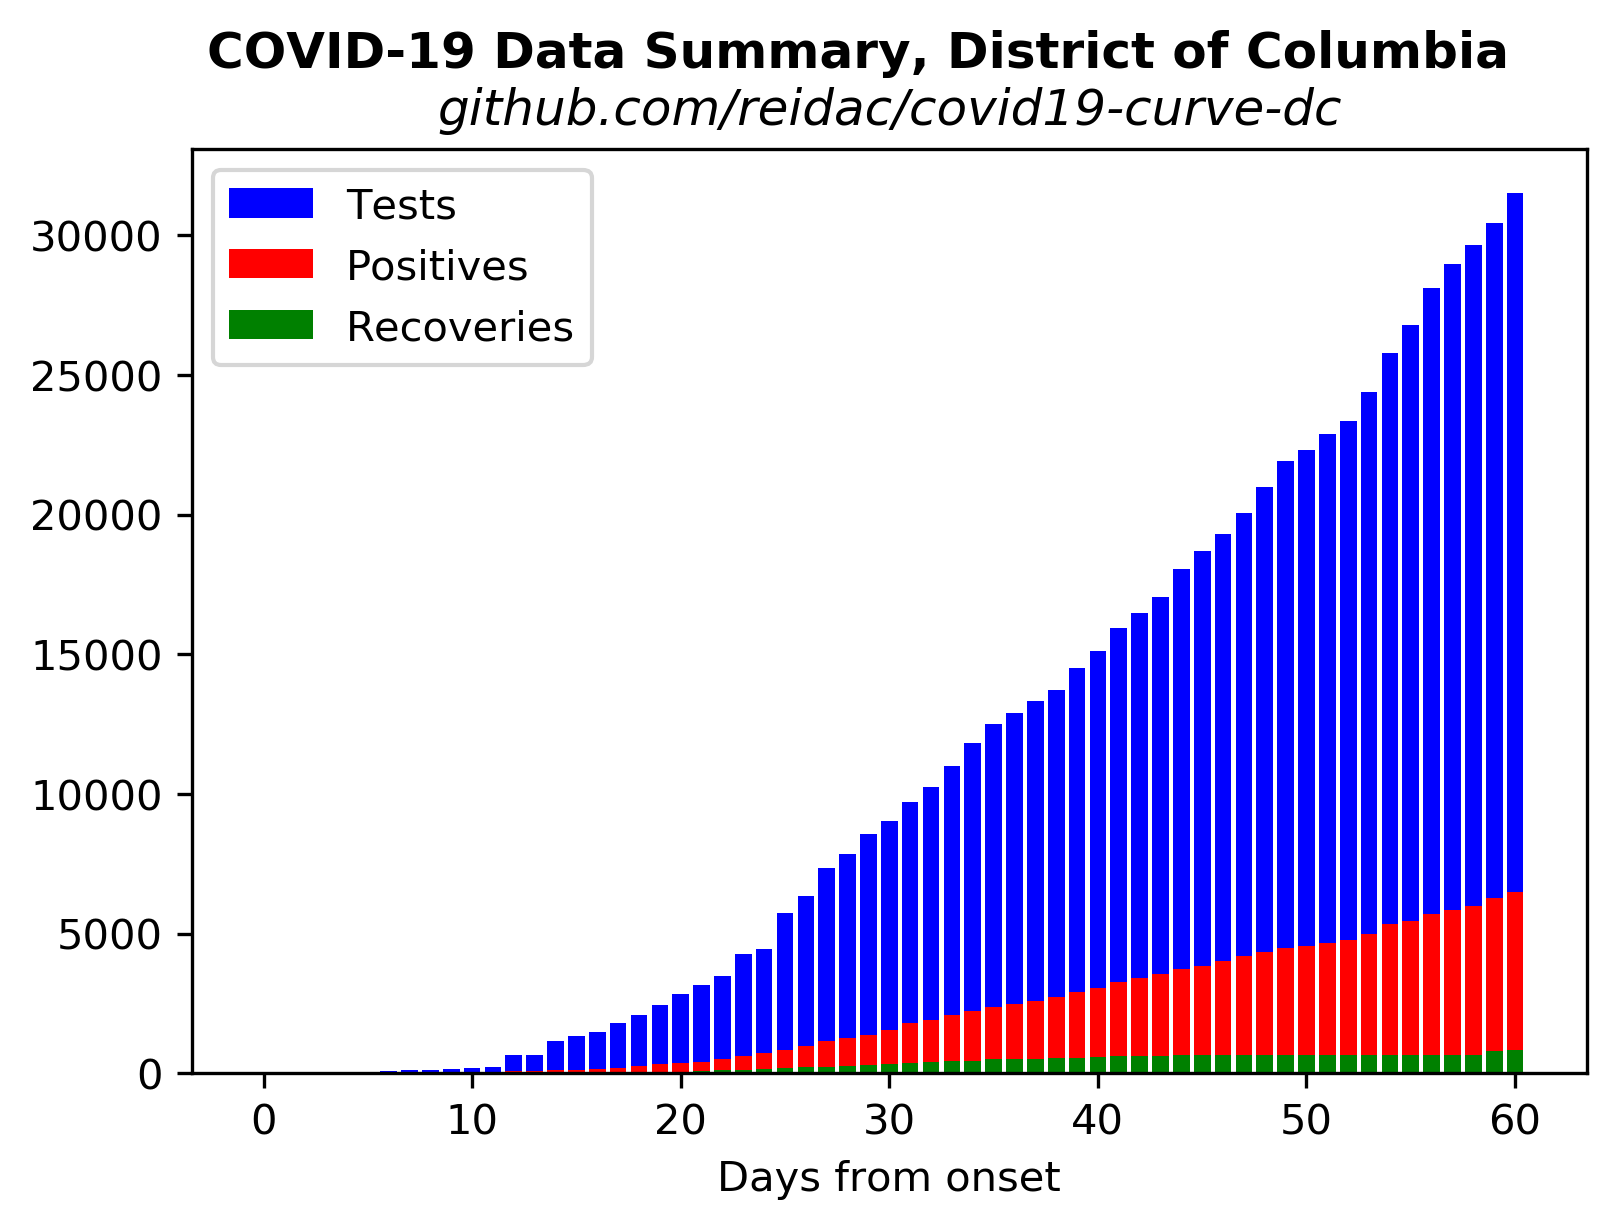
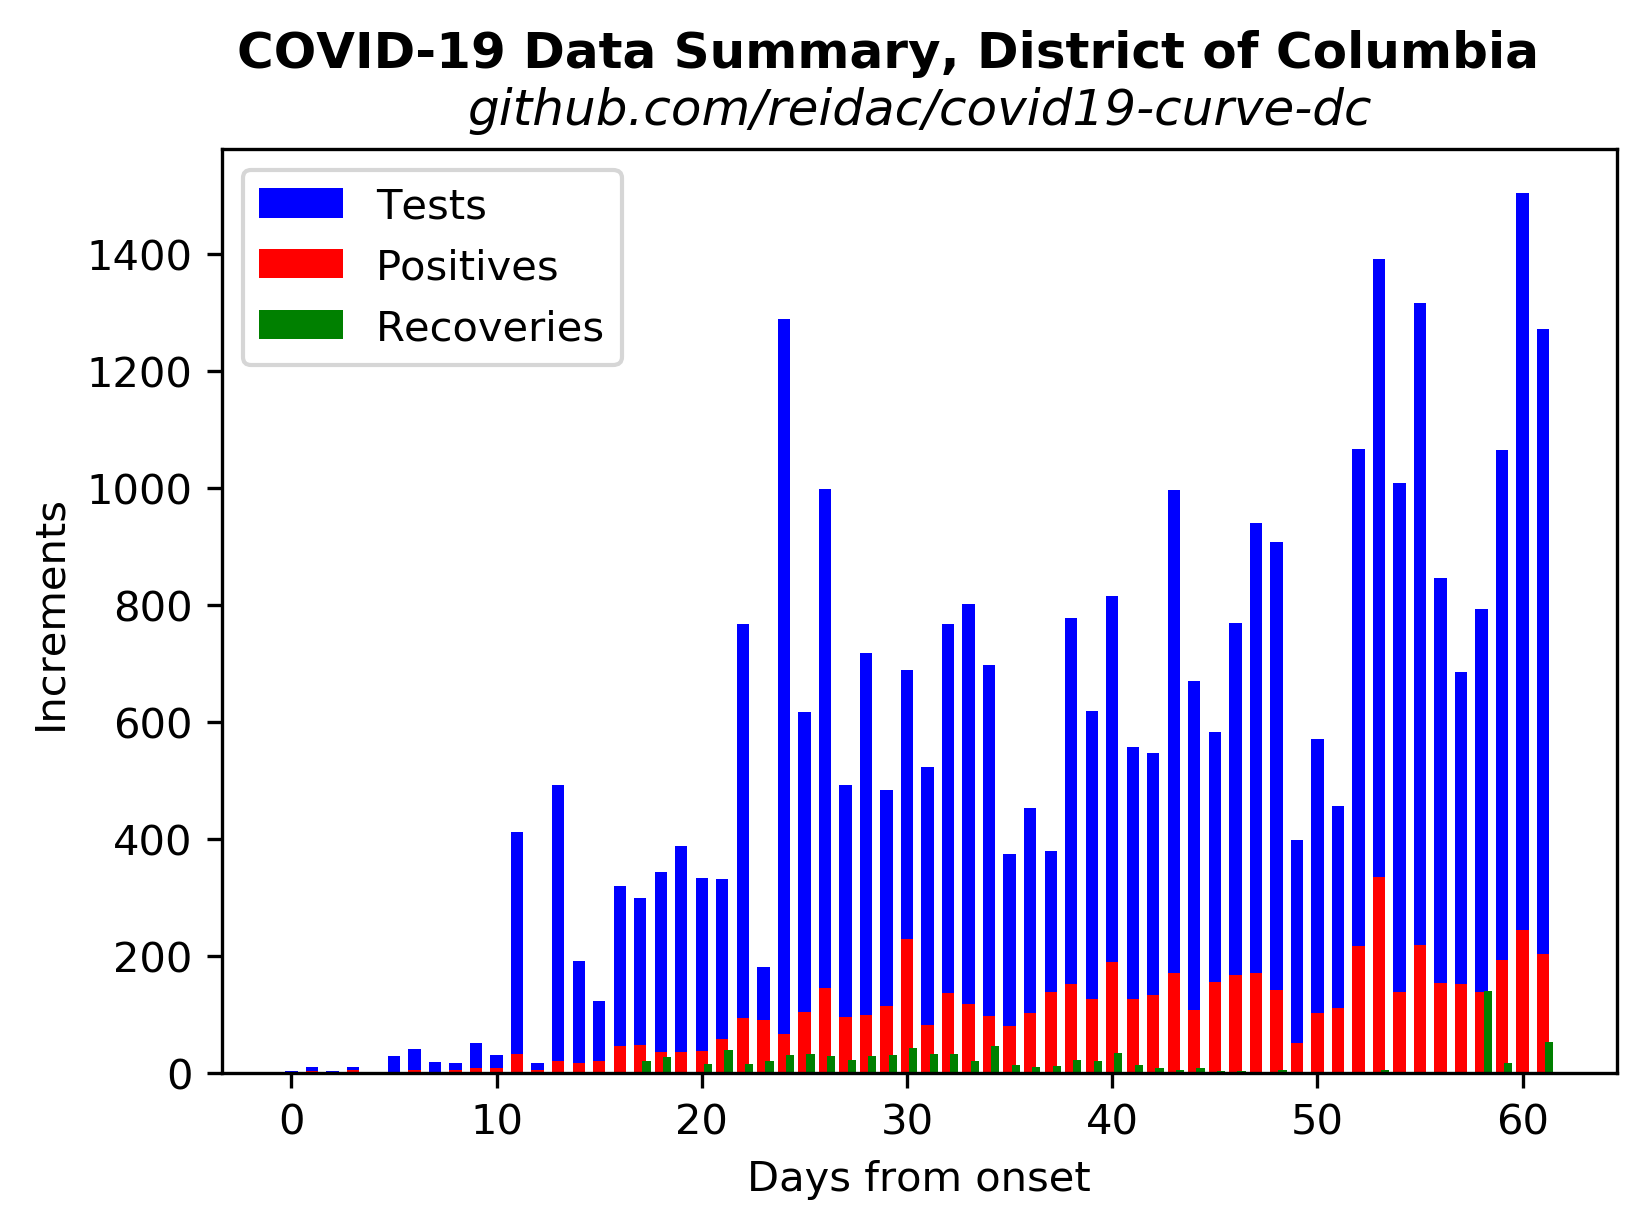
Update to the README, and May 9 data.

diff --git a/README.md b/README.md
@@ -7,9 +7,33 @@ Then ported again from @tkphd's chart for
 
 ## District of Columbia, USA
 
-![DC](us_dc_exp.png)
+![DC](us_dc_bars.png)
 
-Data source: https://covidtracking.com/api/states/daily?state=DC
+This chart shows the increments in testing, confirmed cases,
+and recoveries.  The data source, as for all the analysis
+here, is the CovidTracking site. 
+
+https://covidtracking.com/api/v1/states/DC/daily.json
+
+
+![deltaDC](us_dc_diff.png)
+
+The daily case increment as
+a function of the total number of reported cases.  A feature of 
+exponential growth is that the rate of growth of the system is 
+proportional to the size of the system.  This figure visually
+tests that hypothesis, and illustrates the large amount of noise
+in the data.  The exponential trend had some hope of validity
+in the early days, but now is obviously absent.
+
+
+![logisticDC](us_dc_log.png)
+
+Cumulative case data fitted to a logistic function.  The model fit is
+increasingly ridiculous, but it's possibly a useful supplement to
+the cumulative case data, which for the past month or so
+(as of early May, 2020) has been trending more or less
+linearly. 
 
 The fitting process used in this analysis gives a covariance matrix for
 the model parameters, and from this matrix, it's possible to derive 
@@ -18,22 +42,6 @@ all of the input data points are the same.
 
 The gray bands are the plus-one-sigma (upper) and minus-one-sigma (lower)
 deviations from the least-squares fit.
-
-![DC_l](us_dc_log.png)
-
-Possibly also useful, the same data fitted to a logistic functiion,
-which levels out after a while.  Here the gray bands are the
-highest upper and lowest lower bound from all possible one-sigma 
-deviations (plus or minus) from the optimal fit.
-
-
-![deltaDC](us_dc_diff.png)
-A third figure is also available, showing the daily case increment as
-a function of the total number of reported cases.  A feature of 
-exponential growth is that the rate of growth of the system is 
-proportional to the size of the system.  This figure visually
-tests that hypothesis, and illustrates the large amount of noise
-in the data.
 
 
 ## Reproduce This!
